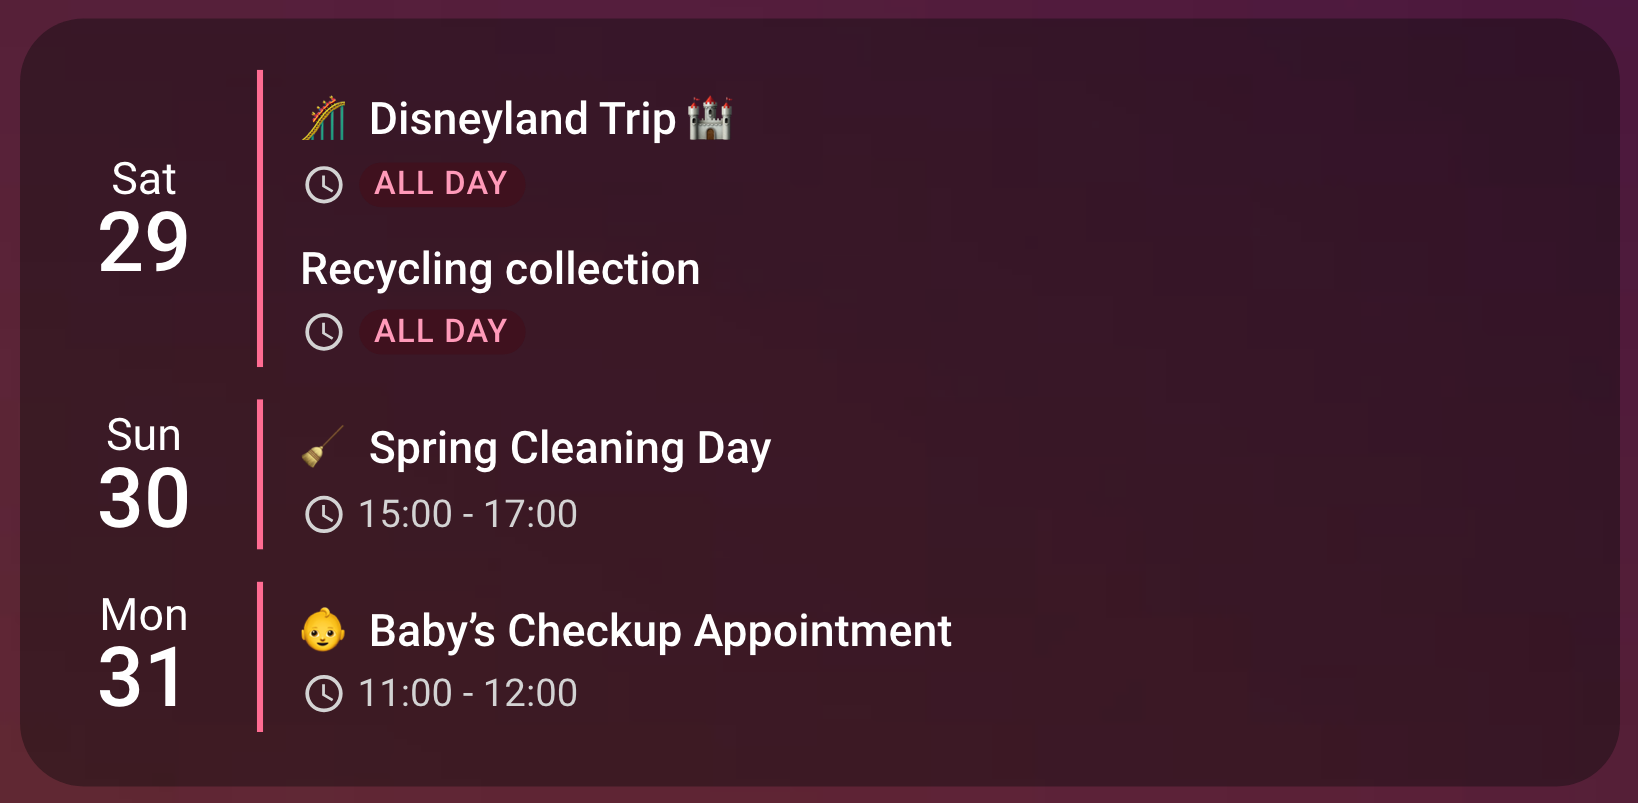
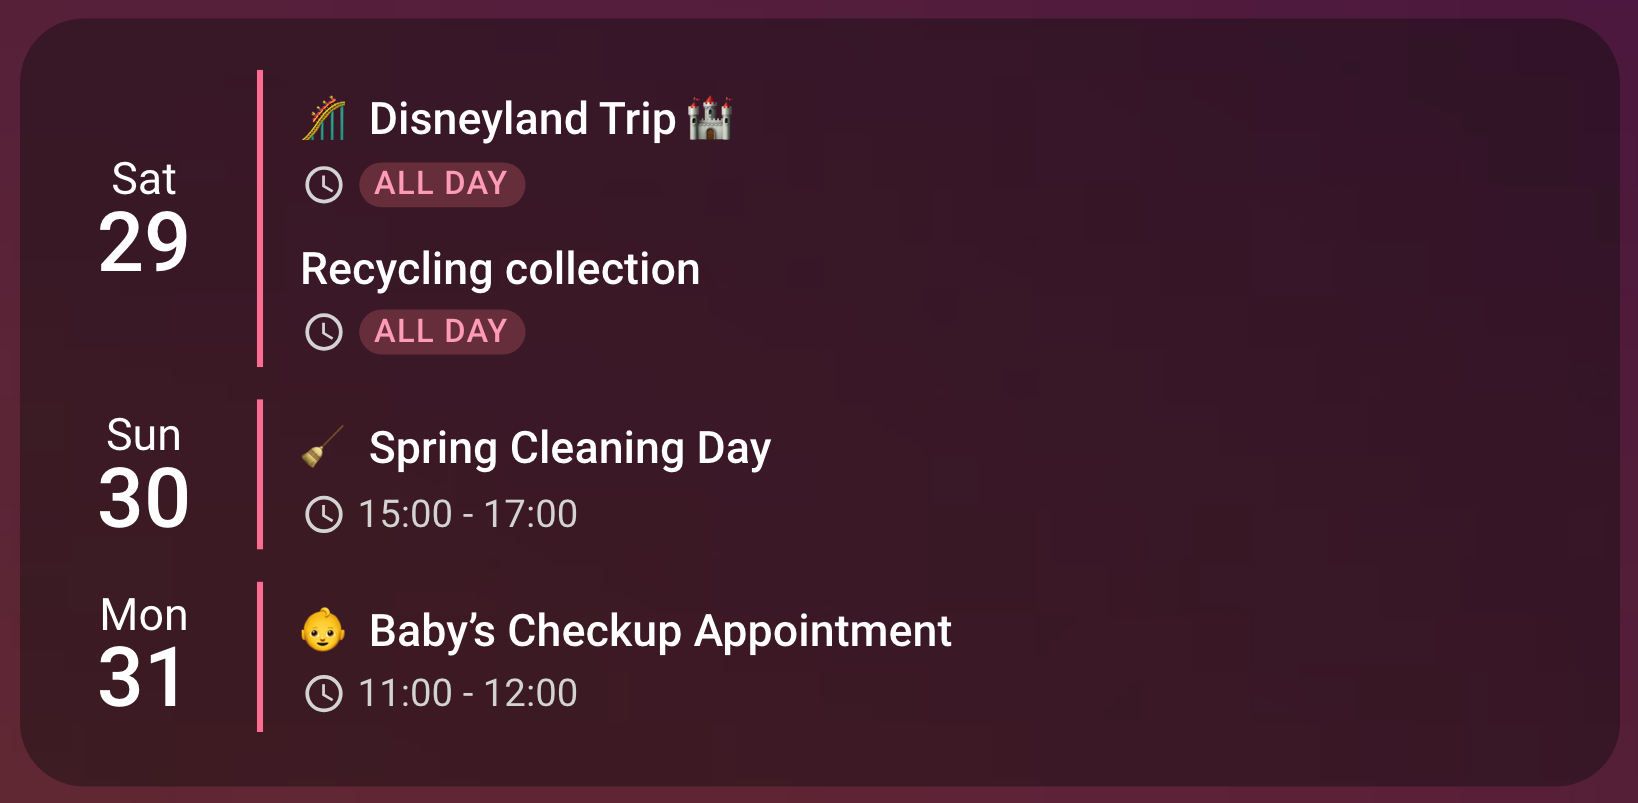
fix(events): the subtle wash vanished on a mid-dark theme, whatever the accent
Reported as the hero screenshot's background clashing with the pill. It was not
a clash, and not the accent: the dark wash used an ABSOLUTE lightness of 0.26,
and a card background has to differ from that number for the wash to be seen at
all. On the iOS dark theme the card sits at almost exactly 0.26, so the two
collided — sampled from the committed image, fill rgb(63,17,30) against card
rgb(56,23,39), a contrast of 1.01. Invisible, and invisible for every hue,
because lightness was what collided rather than colour.

`subtle` carries no ring by design, so when the wash goes the badge goes with
it: what the screenshot showed was coloured text and no pill.

The dark target is now 0.38, above the range dark themes actually use, with
chroma up from 0.40 to 0.45 to hold the hue at the higher lightness. Same
sample, same image, after: fill rgb(102,46,59) against card rgb(56,23,39), 1.53.
The light branch is untouched.

Measured from PNG pixels rather than from the DOM, because the DOM lied. Two
successive probes read `getComputedStyle` and both were wrong — the OKLCH branch
returns `oklch(...)`, which a naive parser mangles, and routing it through a
canvas to convert reported the light-dark() LIGHT branch on a dark theme, giving
a confident 16:1 for a fill that is plainly not there. The rendered image is the
only oracle that cannot be wrong about what a user sees.

Recaptured `example_allday_badge` and `example_5_complete`. The three column
[…]

Changed region(s): [[0.2179, 0.3736, 0.3425, 0.467], [0.2179, 0.1868, 0.3425, 0.2802]]

diff --git a/src/rendering/styles.ts b/src/rendering/styles.ts
@@ -907,9 +907,16 @@ export const cardStyles = css`
         oklch(from var(--calendar-card-event-accent) 0.42 calc(c * 1) h),
         oklch(from var(--calendar-card-event-accent) 0.84 calc(c * 0.9) h)
       );
+      /* The dark target is 0.38, not the 0.26 it started at. An absolute lightness has to
+         clear the CARD's lightness to be seen at all, and CSS cannot read that, so the
+         number has to sit above the range dark themes actually use. At 0.26 it sat inside
+         it: measured against a real dark theme whose card is rgb(56,23,39), the wash came
+         out rgb(63,17,30) — a contrast of 1.01, which is invisible, and invisible for every
+         hue, because lightness is what was colliding. subtle carries no ring, so when the
+         wash goes the whole badge goes with it. */
       --badge-wash: light-dark(
         oklch(from var(--calendar-card-event-accent) 0.95 calc(c * 0.22) h),
-        oklch(from var(--calendar-card-event-accent) 0.26 calc(c * 0.4) h)
+        oklch(from var(--calendar-card-event-accent) 0.38 calc(c * 0.45) h)
       );
     }
 
